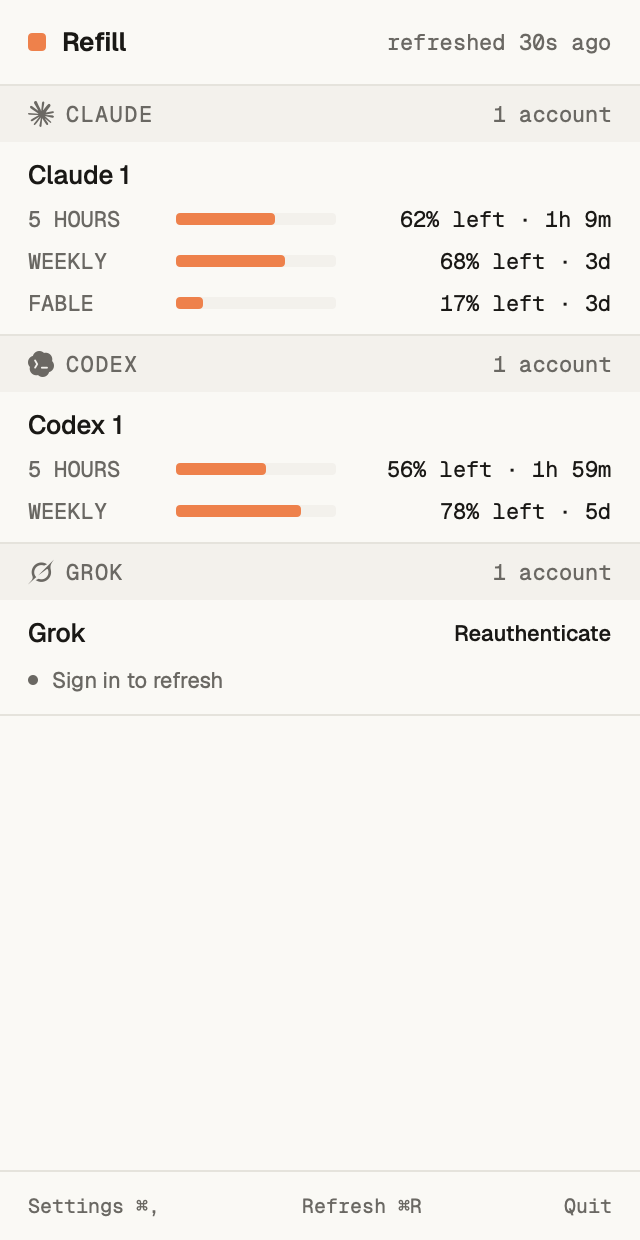
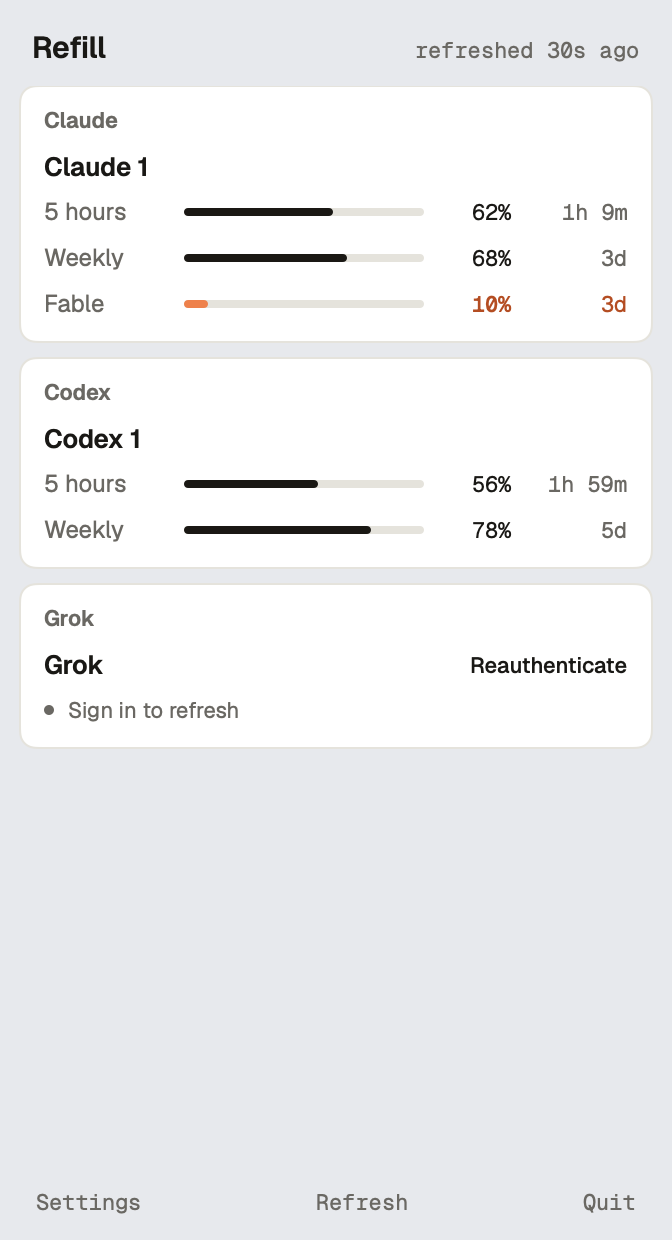
Restyle the popover around white sheets and ink meters
Group accounts by provider on a cool field. Bars stay ink until a
window is low, then orange. README hero matches the new UI.

diff --git a/Sources/Views.swift b/Sources/Views.swift
@@ -55,9 +55,8 @@ struct PopoverView: View {
     var body: some View {
         VStack(spacing: 0) {
             header
-            hairline
             ScrollView(.vertical, showsIndicators: true) {
-                LazyVStack(spacing: 0) {
+                VStack(spacing: 8) {
                     ForEach(Provider.allCases) { provider in
                         ProviderSection(
                             provider: provider,
@@ -67,28 +66,22 @@ struct PopoverView: View {
                         )
                     }
                 }
+                .padding(.horizontal, 10)
+                .padding(.bottom, 8)
             }
-            hairline
             footer
         }
         .frame(width: Otis.popoverWidth, height: 620)
-        .background(Otis.paper)
+        .background(Otis.chrome)
         .foregroundStyle(Otis.ink)
     }
 
     private var header: some View {
-        HStack(spacing: 8) {
-            RoundedRectangle(cornerRadius: 2)
-                .fill(Otis.accent)
-                .frame(width: 9, height: 9)
-                .accessibilityHidden(true)
+        HStack(alignment: .firstTextBaseline) {
             Text("Refill")
-                .font(Otis.sans(13, weight: .semibold))
+                .font(Otis.sans(15, weight: .semibold))
             Spacer()
             if model.isRefreshing {
-                Circle()
-                    .fill(Otis.accent)
-                    .frame(width: 6, height: 6)
                 Text("refreshing")
                     .font(Otis.mono(11))
                     .foregroundStyle(Otis.ink2)
@@ -98,30 +91,30 @@ struct PopoverView: View {
                     .foregroundStyle(Otis.ink2)
             }
         }
-        .padding(.horizontal, 14)
-        .frame(height: 42)
+        .padding(.horizontal, 16)
+        .padding(.top, 14)
+        .padding(.bottom, 10)
+        .background(Otis.chrome)
     }
 
     private var footer: some View {
         HStack {
-            Button("Settings ⌘,") { openSettings() }
+            Button("Settings") { openSettings() }
                 .keyboardShortcut(",", modifiers: .command)
             Spacer()
-            Button(model.isRefreshing ? "Refreshing" : "Refresh ⌘R") { model.refreshAll() }
+            Button(model.isRefreshing ? "Refreshing" : "Refresh") { model.refreshAll() }
                 .disabled(model.isRefreshing)
                 .keyboardShortcut("r", modifiers: .command)
             Spacer()
             Button("Quit") { quit() }
         }
         .buttonStyle(OtisFooterButtonStyle())
-        .font(Otis.mono(10))
-        .padding(.horizontal, 14)
-        .frame(height: 34)
+        .font(Otis.mono(11))
+        .padding(.horizontal, 18)
+        .padding(.top, 8)
+        .padding(.bottom, 12)
         .foregroundStyle(Otis.ink2)
-    }
-
-    private var hairline: some View {
-        Rectangle().fill(Otis.line).frame(height: Otis.hairline)
+        .background(Otis.chrome)
     }
 }
 
@@ -132,34 +125,23 @@ struct ProviderSection: View {
     let reauthenticate: (AccountProfile) -> Void
 
     var body: some View {
-        VStack(spacing: 0) {
-            HStack(spacing: 6) {
-                ProviderLogoView(provider: provider)
-                Text(provider.title.uppercased())
-                    .font(Otis.label)
-                    .foregroundStyle(Otis.ink2)
-                    .tracking(0.7)
-                Spacer()
-                Text("\(accounts.count) \(accounts.count == 1 ? "account" : "accounts")")
-                    .font(Otis.mono(11))
-                    .foregroundStyle(Otis.ink2)
-            }
-            .padding(.horizontal, 14)
-            .frame(height: 28)
-            .background(Otis.surface)
+        VStack(alignment: .leading, spacing: 0) {
+            Text(provider.title)
+                .font(Otis.sans(11, weight: .semibold))
+                .foregroundStyle(Otis.ink2)
+                .padding(.bottom, 8)
 
             if accounts.isEmpty {
                 Text("No accounts found")
                     .font(Otis.working)
                     .foregroundStyle(Otis.ink2)
                     .frame(maxWidth: .infinity, alignment: .leading)
-                    .padding(.horizontal, 14)
-                    .padding(.vertical, 14)
+                    .padding(.vertical, 6)
             } else {
                 ForEach(Array(accounts.enumerated()), id: \.element.id) { index, profile in
                     if index > 0 {
                         Rectangle().fill(Otis.line).frame(height: Otis.hairline)
-                            .padding(.leading, 14)
+                            .padding(.vertical, 10)
                     }
                     AccountUsageView(
                         profile: profile,
@@ -168,8 +150,16 @@ struct ProviderSection: View {
                     )
                 }
             }
-            Rectangle().fill(Otis.line).frame(height: Otis.hairline)
         }
+        .padding(.horizontal, 12)
+        .padding(.vertical, 10)
+        .frame(maxWidth: .infinity, alignment: .leading)
+        .background(Otis.sheet)
+        .clipShape(RoundedRectangle(cornerRadius: Otis.radiusMd))
+        .overlay(
+            RoundedRectangle(cornerRadius: Otis.radiusMd)
+                .stroke(Otis.line, lineWidth: Otis.hairline)
+        )
     }
 }
 
@@ -214,15 +204,15 @@ struct AccountUsageView: View {
     let reauthenticate: (AccountProfile) -> Void
 
     var body: some View {
-        VStack(alignment: .leading, spacing: 6) {
+        VStack(alignment: .leading, spacing: 5) {
             HStack(spacing: 7) {
                 Text(profile.name)
-                    .font(Otis.sans(13, weight: .medium))
+                    .font(Otis.sans(13, weight: .semibold))
                     .lineLimit(1)
                 Spacer()
                 if state?.isStale == true {
-                    Text("STALE")
-                        .font(Otis.label)
+                    Text("Stale")
+                        .font(Otis.mono(11))
                         .foregroundStyle(Otis.accentText)
                 }
                 if state?.requiresAuthentication == true {
@@ -251,8 +241,6 @@ struct AccountUsageView: View {
                 .frame(height: 18)
             }
         }
-        .padding(.horizontal, 14)
-        .padding(.vertical, 8)
     }
 
     private var stateLoading: Bool {
@@ -266,36 +254,48 @@ struct UsageWindowView: View {
     let window: UsageWindow
     let stale: Bool
 
+    private var attention: Bool { !stale && window.isTight }
+
     var body: some View {
         HStack(spacing: 8) {
-            Text(window.label.uppercased())
-                .font(Otis.label)
+            Text(window.label)
+                .font(Otis.sans(12))
                 .foregroundStyle(Otis.ink2)
-                .frame(width: 66, alignment: .leading)
+                .frame(width: 62, alignment: .leading)
+                .lineLimit(1)
 
             GeometryReader { proxy in
                 ZStack(alignment: .leading) {
-                    RoundedRectangle(cornerRadius: 2)
-                        .fill(Otis.surface)
-                    RoundedRectangle(cornerRadius: 2)
-                        .fill(stale ? Otis.ink2 : (window.isTight ? Otis.ink : Otis.accent))
-                        .frame(width: window.remainingPercent == 0
-                            ? 0
-                            : max(2, proxy.size.width * CGFloat(window.remainingPercent) / 100))
+                    Capsule()
+                        .fill(Otis.line)
+                    Capsule()
+                        .fill(Otis.meterFill(attention: attention, stale: stale))
+                        .frame(width: max(3, proxy.size.width * CGFloat(window.remainingPercent) / 100))
                         .animation(Otis.bar, value: window.remainingPercent)
                 }
             }
-            .frame(height: 6)
+            .frame(height: 4)
 
-            Text("\(UsageFormat.percent(window.remainingPercent)) left · \(UsageFormat.reset(window.resetsAt).replacingOccurrences(of: "reset ", with: ""))")
-                .font(Otis.mono(11, weight: window.isTight ? .medium : .regular))
-                .foregroundStyle(window.isTight ? Otis.accentText : Otis.ink)
-                .frame(width: 130, alignment: .trailing)
+            Text(UsageFormat.percent(window.remainingPercent))
+                .font(Otis.mono(11, weight: attention ? .medium : .regular))
+                .foregroundStyle(Otis.meterText(attention: attention, stale: stale))
+                .frame(width: 36, alignment: .trailing)
+                .lineLimit(1)
+
+            Text(resetLabel)
+                .font(Otis.mono(11))
+                .foregroundStyle(attention ? Otis.accentText : Otis.ink2)
+                .frame(width: 50, alignment: .trailing)
                 .lineLimit(1)
         }
-        .frame(height: 15)
+        .frame(height: 18)
         .accessibilityElement(children: .ignore)
         .accessibilityLabel("\(window.label), \(UsageFormat.percent(window.remainingPercent)) left, \(UsageFormat.reset(window.resetsAt))")
+    }
+
+    private var resetLabel: String {
+        let value = UsageFormat.reset(window.resetsAt).replacingOccurrences(of: "reset ", with: "")
+        return value == "unknown" ? "" : value
     }
 }
 

diff --git a/Sources/Otis.swift b/Sources/Otis.swift
@@ -5,6 +5,9 @@
 // Fonts: bundle Geist and Geist Mono (SIL OFL) and register them in Info.plist
 // under "Fonts provided by application". Otis overrides the system look on
 // purpose; do not fall back to SF for body text.
+//
+// Accent is the alarm, not the default fill. Repeating meters use ink;
+// orange appears when a value needs attention.
 
 import SwiftUI
 import AppKit
@@ -26,12 +29,32 @@ enum Otis {
     static let ink3    = dynamic(light: "#a09e96", dark: "#6b6862")
     static let line    = dynamic(light: "#e6e3db", dark: "#2a2820")
     static let surface = dynamic(light: "#f3f1eb", dark: "#232017")
+    /// Grouped module on paper. One step past surface so panels read without a shadow.
+    static let well    = dynamic(light: "#ece8df", dark: "#2c2920")
+    /// Backdrop behind an inset workspace window, always past `surface`.
+    static let canvas  = dynamic(light: "#e3ddcd", dark: "#100f0c")
+    /// Cool field behind a sheet. Not canvas: canvas is warm and reads as linen.
+    static let chrome  = dynamic(light: "#e6e9ed", dark: "#161618")
+    /// Lifted panel on chrome. White in light so it does not sit cream on tan.
+    static let sheet   = dynamic(light: "#ffffff", dark: "#2c2920")
 
     static let accent       = Color(NSColor(hex: "#ff7a3a"))
     static let accentStrong = Color(NSColor(hex: "#f5610f"))
     /// Orange for text. The accent fails contrast on paper; this sibling passes.
     static let accentText   = dynamic(light: "#c2440a", dark: "#ff7a3a")
     static let accentSoft   = accent.opacity(0.14)
+
+    /// Fill for a repeating meter. Ink is the default. Accent is the alarm.
+    static func meterFill(attention: Bool, stale: Bool = false) -> Color {
+        if stale { return ink2 }
+        return attention ? accent : ink
+    }
+
+    /// Figures on a repeating meter. Same size at the call site; color does the work.
+    static func meterText(attention: Bool, stale: Bool = false) -> Color {
+        if stale { return ink2 }
+        return attention ? accentText : ink
+    }
 
     static let ok   = dynamic(light: "#4f8a5b", dark: "#6fae7c")
     static let warn = dynamic(light: "#b8862b", dark: "#d6a05a")
@@ -60,8 +83,9 @@ enum Otis {
     static let radius: CGFloat = 6
     static let radiusMd: CGFloat = 8
     static let radiusLg: CGFloat = 10
+    static let radiusXl: CGFloat = 16
     static let hairline: CGFloat = 1
-    static let popoverWidth: CGFloat = 320
+    static let popoverWidth: CGFloat = 336
 
     // MARK: Motion
 

diff --git a/Sources/RefillModel.swift b/Sources/RefillModel.swift
@@ -212,7 +212,7 @@ final class RefillModel: ObservableObject {
             }, fetchedAt: now)
         }
         let states: [String: UsageState] = [
-            profiles[0].id: .fresh(usage([("5 hours", 38, 4_200), ("Weekly", 32, 345_600), ("Fable", 83, 345_600)])),
+            profiles[0].id: .fresh(usage([("5 hours", 38, 4_200), ("Weekly", 32, 345_600), ("Fable", 90, 345_600)])),
             profiles[1].id: .fresh(usage([("5 hours", 9, 11_400), ("Weekly", 63, 172_800), ("Fable", 12, 172_800)])),
             profiles[2].id: .fresh(usage([("5 hours", 71, 8_100), ("Weekly", 89, 86_400), ("Fable", 100, 86_400)])),
             profiles[3].id: .fresh(usage([("5 hours", 44, 7_200), ("Weekly", 22, 518_400)])),

diff --git a/README.md b/README.md
@@ -109,7 +109,7 @@ The package script builds both architectures, enables hardened runtime, verifies
 
 ## Design
 
-Refill uses the [Otis design system](https://github.com/10-01/otis): warm paper and ink colors, one orange accent, Geist typography, 6-point quota-left bars, hairline separators, and a compact native popover. It follows the Mac's light or dark appearance.
+Refill uses the [Otis design system](https://github.com/10-01/otis): warm paper and ink, Geist, and a compact native popover. Quota bars fill in ink. Orange appears when a window is low. It follows the Mac's light or dark appearance.
 
 ## License
 

diff --git a/CONTRIBUTING.md b/CONTRIBUTING.md
@@ -28,7 +28,7 @@ Never commit real tokens, `auth.json`, Keychain exports, provider home directori
 
 ## Design changes
 
-The UI follows Otis. Read the linked design system before changing layout, type, color, or interaction patterns. Keep the popover compact and native, use one orange accent, and verify both macOS appearances.
+The UI follows Otis. Read the linked design system before changing layout, type, color, or interaction patterns. Keep the popover compact and native. Ink is the default meter fill; orange is the alarm when a window is low. Verify both macOS appearances.
 
 ## Provider changes
 

diff --git a/CHANGELOG.md b/CHANGELOG.md
@@ -2,6 +2,11 @@
 
 All notable changes are documented here.
 
+## Unreleased
+
+- Grouped provider modules on cool chrome, with white sheets and sentence-case window labels.
+- Quota bars fill in ink. Orange is reserved for windows that are running low.
+
 ## 1.0.1 - 2026-09-02
 
 - Renamed the app from Leftbar to Refill.
